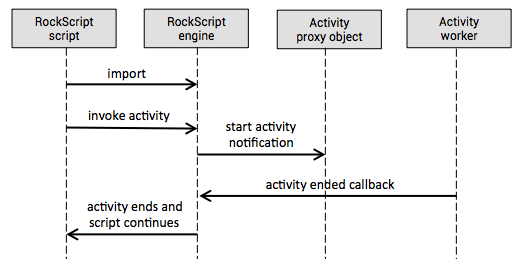
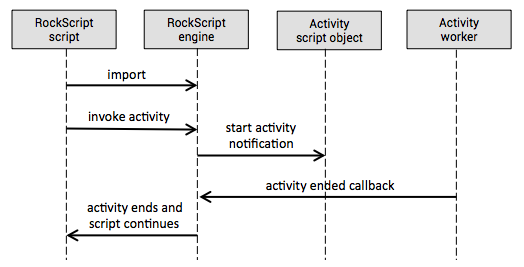
README improvements

diff --git a/README.md b/README.md
@@ -1,12 +1,12 @@
 ![RockScript](docs/image/logo.png)
 
+## Why use it
+
  * __Resilient script execution__
  * __Support for including long running activities__  
  * __Used for microservice orchestration__
  * __Valuable component in event driven architectures__
  * __Easier to read compared to reactive code with callbacks__
-
-## Why
 
 The syntax of RockScript is based on JavaScript, so it will be very familiar 
 to you.
@@ -24,7 +24,7 @@ each script execution is stored with event sourcing as the script executes.
 So script executions can _survive RockScript server crashes_.  It's designed 
 so that a group of RockScript servers can form a cluster. 
 
-## When
+## When to use it
 
 **Event listeners**: RockScript is ideal for implementing event listeners in 
 an event driven architecture.  That's because your server often needs to perform 
@@ -56,8 +56,8 @@ An **activity worker** executes activities.  Activity workers can expose their a
 through a Java API as well as over an HTTP API.  It's really easy to add activity workers 
 to an engine.
 
-An **activity proxy object** is a script object that is imported in the script and exposes 
-one or more activities in the script.  Activity worker proxies can be imported dynamically. 
+An **activity script object** is a script object that is imported in the script and exposes 
+one or more activities in the script.
 
 ![Activity worker sequence](docs/image/activity-worker-sequence.png)
 
@@ -65,7 +65,7 @@ one or more activities in the script.  Activity worker proxies can be imported d
 
 #### Prerequisites
 
- * Java 8
+ * Java 8 (to run the RockScript server)
  * Maven 3.3.9 (to build the engine)
  * NodeJS 7.7.1 (to run the example)
 
@@ -143,19 +143,13 @@ The script ends after the approval is given in the approval service.  Adding app
 return data and doing something with it afterwards is left as a challenge for the 
 reader :)
 
-#### The http activity worker
-
-The `http` activity worker is built into the engine itself.  It uses a separate 
-threadpool to perform the HTTP requests.  But when executing the example script, 
-it's quite fast so you might not notice it's being executed asynchronous.
-
 ### Deploying the script
 
 Before we can run the script, we have to deploy it into the RockScript server.
 Deploy `create-approval.rs` with the following command
 
 ```
-curl -X POST --data-binary @joke.rs localhost:3652/scripts
+curl -X POST --data-binary @create-approval.rs localhost:3652/scripts
 ```
 
 The output on the console shown by curl contains the script id.  It looks something 
@@ -164,6 +158,12 @@ like this:
 ```
 {"id":"s1"}
 ```
+
+#### The http activity worker
+
+The `http` activity worker is built into the engine itself.  It uses a separate 
+threadpool to perform the HTTP requests.  But when executing the example script, 
+it's quite fast so you might not notice it's being executed asynchronous.
 
 #### The approval service
 
@@ -178,7 +178,13 @@ The approval service demonstrates:
 The script adds a statement to the service for approval.  And the approval ends when 
 someone clicks on the Approve button next to the statement.
 
-Start the approval service with the command `node approval-server.js`.  You should see
+Start the approval service with the command 
+
+```
+node approval-service.js
+```  
+
+You should see
 
 ```
 Approval service listening on port 3000.  Point your browser to http://localhost:3000
